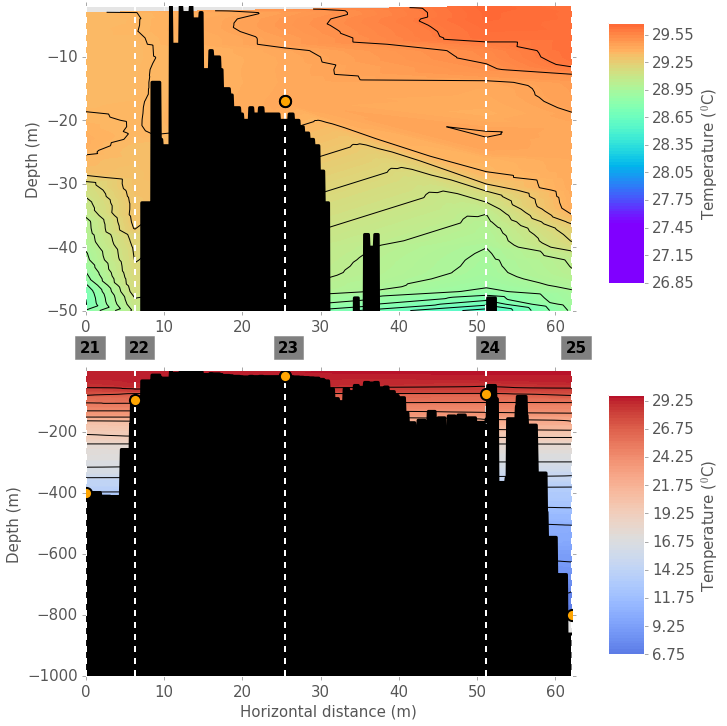
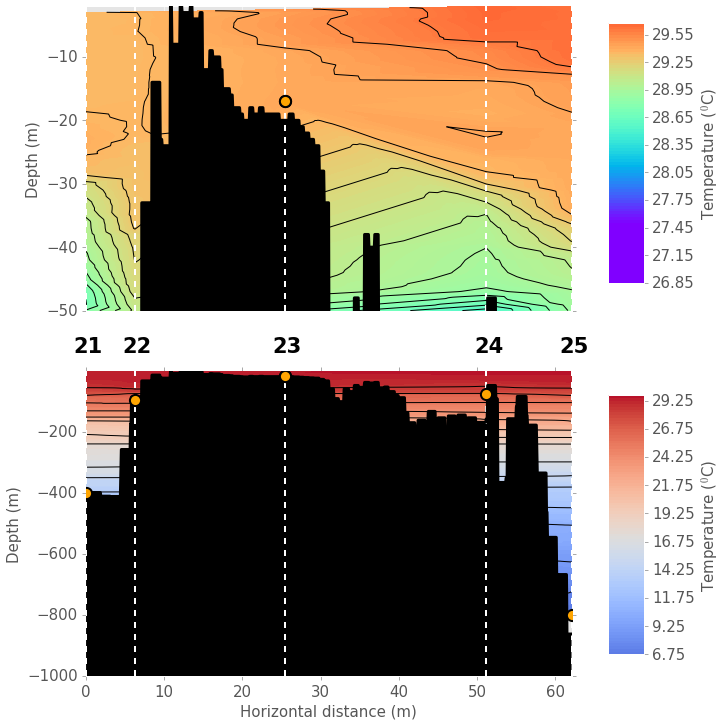
laptop

diff --git a/MAIO/Project/Programming/Plot_per_transect.py b/MAIO/Project/Programming/Plot_per_transect.py
@@ -1,6 +1,6 @@
 fig= plt.figure(figsize=(10,12))
 deepest1=50
-deepest2=1000
+deepest2=4000
 colorbarused1=plt.cm.rainbow
 colorbarused2=plt.cm.coolwarm
 colorstationlines='white'
@@ -64,6 +64,7 @@ plt.ylim([-deepest1,-2])
 plt.xlim([0,max(Horvec)])
 plt.ylabel('Depth (m)',fontsize=15)
 plt.tick_params(axis='both', which='major', labelsize=15)
+plt.tick_params(axis='x',which='both',bottom='off',top='off',labelbottom='off')
 fig.subplots_adjust(right=0.8)
 cbar_ax = fig.add_axes([0.85, 0.58, 0.05, 0.3])
 a=fig.colorbar(cs3, cax=cbar_ax)
@@ -107,11 +108,17 @@ for i in range(0,len(Stations_dist)):
     ind=Stations_dist[i]
     plt.plot([ind,ind], [-deepest2,0],'--',color=colorstationlines,linewidth=2,zorder=51)
 
-for j in range(0,len(unique(Stations_dist))):
-    #plt.scatter(Stations_dist,zeros(len(Stations_dist)),s=200,c='orange',alpha=1,zorder=52,edgecolor='k',linewidth=2)
-    plt.text(unique(Stations_dist)[j]-0.013*Stations_dist[len(Stations_dist)-1],deepest2/16.,Stations1_s[j],fontsize=15,zorder=53,backgroundcolor='grey',fontweight='bold')
+if extra==0:
+    for j in range(0,len(unique(Stations_dist))):
+        #plt.scatter(Stations_dist,zeros(len(Stations_dist)),s=200,c='orange',alpha=1,zorder=52,edgecolor='k',linewidth=2)
+        plt.text(unique(Stations_dist)[j]-0.025*Stations_dist[len(Stations_dist)-1],deepest2/16.,Stations1_s[j],fontsize=21,zorder=53,fontweight='bold')
 if extra==1:
-    plt.text(unique(Stations_dist)[1]-0.035*Stations_dist[len(Stations_dist)-1],deepest2/16.,Stations1_s[1],fontsize=15,zorder=54,backgroundcolor='grey',fontweight='bold')
+    for j in range(0,len(unique(Stations_dist))):
+        
+        if j!=1:
+            plt.text(unique(Stations_dist)[j]-0.025*Stations_dist[len(Stations_dist)-1],deepest2/16.,Stations1_s[j],fontsize=21,zorder=53,fontweight='bold')
+        if j==1:
+            plt.text(unique(Stations_dist)[j]-0.045*Stations_dist[len(Stations_dist)-1],deepest2/16.,Stations1_s[j],fontsize=21,zorder=54,fontweight='bold')
 
 plt.fill_between(Horvec[::-1], -10000, a, facecolor=colorbottom,zorder=50)#saddlebrown
 plt.plot(Horvec[::-1],a,'k',linewidth=3,zorder=51)

diff --git a/MAIO/Project/Programming/Vertical_Plotting_CTD.py b/MAIO/Project/Programming/Vertical_Plotting_CTD.py
@@ -15,7 +15,7 @@ Start2=13
 End2=23
 Start3=27
 End3=33
-which_CTD_vec=which_CTD_vec[Start3:End3]
+which_CTD_vec=which_CTD_vec[Start1:End1]
 
 which_depth=10
 Depth_matrix=[]
